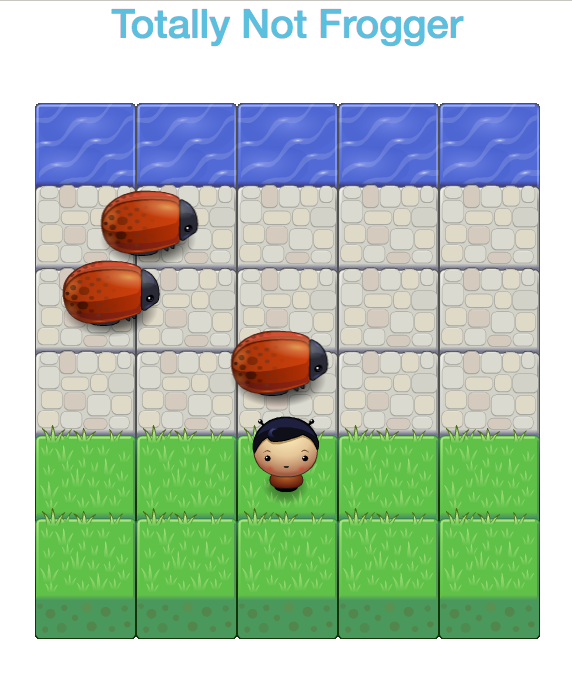
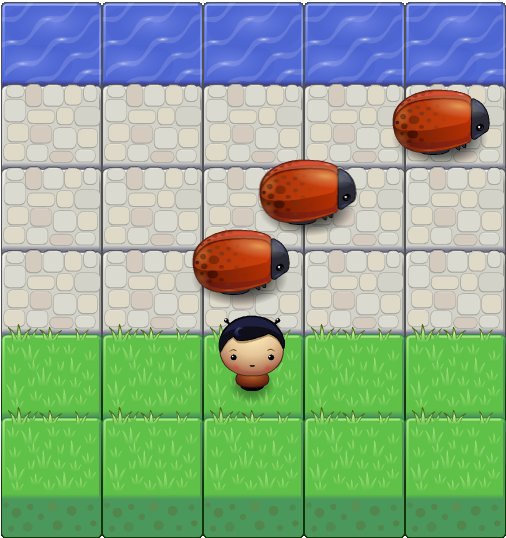
added patches

diff --git a/index.html b/index.html
@@ -103,15 +103,17 @@
                               <p>
                                  Axtion is an AI driven dashboard that analyzes the slack channel using IBM waton's NLU technology. This project was built by my team in a cuny Hackathon and we were ranked honorable mention for it.
                               </p>
-                              <ul>
+                              <h5>Tech Stack</h5>
+                              <ul class="tech_list">
                                   <li>Firebase</li>
                                   <li>Jquery</li>
                                   <li>Chart.js</li>
+                                  <li>AJAX</li>
                               </ul>
                               <button class="btn"> 
                               <a target="blank" href="https://slackmood.herokuapp.com/">Live Demo</a>
                               </button>
-                              <a target="blank" href="#"  class="btn btn-social-icon btn-github">                   <span class="fa fa-github"></span>                   </a>
+                              <a target="blank" href="https://github.com/steveneng/Hackathon-Project-axtion"  class="btn btn-social-icon btn-github">                   <span class="fa fa-github"></span>                   </a>
                            </div>
                         </div>
                      </div>
@@ -127,16 +129,22 @@
                         <hr>
                         <div class="row project_content">
                            <div class="col-md-6">
-                              <img class="img-fluid" src="img/ax.png" alt="">
+                              <img class="img-fluid" src="img/frogger.png" alt="">
                            </div>
                            <div class="col-md-6">
                               <p>
-                                 ...
+                                 Arcade was built using Object Javascript. 
                               </p>
+                              <h5>Tech Stack</h5>
+                              <ul class="tech_list">
+                                  <li>Bootstrap</li>
+                                  <li>Object Oriented Javscript</li>
+                                  <li>HTML Canvas</li>
+                              </ul>
                               <button class="btn">
-                              <a target="blank" href="https://slackmood.herokuapp.com/"></a>
+                              <a target="blank" href="https://steveneng.github.io/Udacity_portfolio/frontend-nanodegree-arcade-game-master-Project%204/">Demo</a>
                               </button>
-                              <a target="blank" href="#"  class="btn btn-social-icon btn-github">                   <span class="fa fa-github"></span>                   </a>
+                              <a target="blank" href="https://github.com/steveneng/Udacity_portfolio/tree/master/frontend-nanodegree-arcade-game-master-Project%204"  class="btn btn-social-icon btn-github">                   <span class="fa fa-github"></span>                   </a>
                            </div>
                         </div>
                      </div>
@@ -152,7 +160,7 @@
                         <hr>
                         <div class="row project_content">
                            <div class="col-md-6">
-                              <img class="img-fluid" src="img/ax.png" alt="">
+                              <img class="img-fluid" src="img/neighborhood.png" alt="">
                            </div>
                            <div class="col-md-6">
                               <p>
@@ -236,8 +244,7 @@
                         <div class="carousel-item active">
                            <img class="d-block w-100" src="https://scontent-iad3-1.xx.fbcdn.net/v/t1.0-9/17362065_10212565150309718_3152669643004346232_n.jpg?oh=57e5753db8628291864b29c841409555&oe=5A27F93C" alt="First slide">
                            <div class="carousel-caption d-none d-md-block">
-                              <h3>What up</h3>
-                              <p></p>
+                              <p>Greetings!</p>
                            </div>
                         </div>
                         <div class="carousel-item">
@@ -280,6 +287,12 @@
                   <a target="blank" href="https://github.com/steveneng"  class="btn btn-social-icon btn-github">
                   <span class="fa fa-github"></span>
                   </a>
+                  <a target="blank" href="https://github.com/steveneng"  class="btn btn-social-icon btn-instagram">
+                   <span class="fa fa-instagram"></span>
+                 </a>
+                    <a target="blank" href="https://github.com/steveneng"  class="btn btn-social-icon btn-facebook">
+                        <span class="fa fa-facebook"></span>
+                        </a>
                </p>
             </div>
          </div>

diff --git a/app.js b/app.js
@@ -37,9 +37,9 @@ $(document).ready(function() {
         }
         $('.descriptions').empty();
         $('.descriptions').append(descriptions[g]).hide();
-        $('.descriptions').fadeIn(1000);
+        $('.descriptions').fadeIn(500);
         g++;
-    }, 2500);
+    }, 1500);
 
 
     $('ul.navbar-nav').find('a').click(function(){
